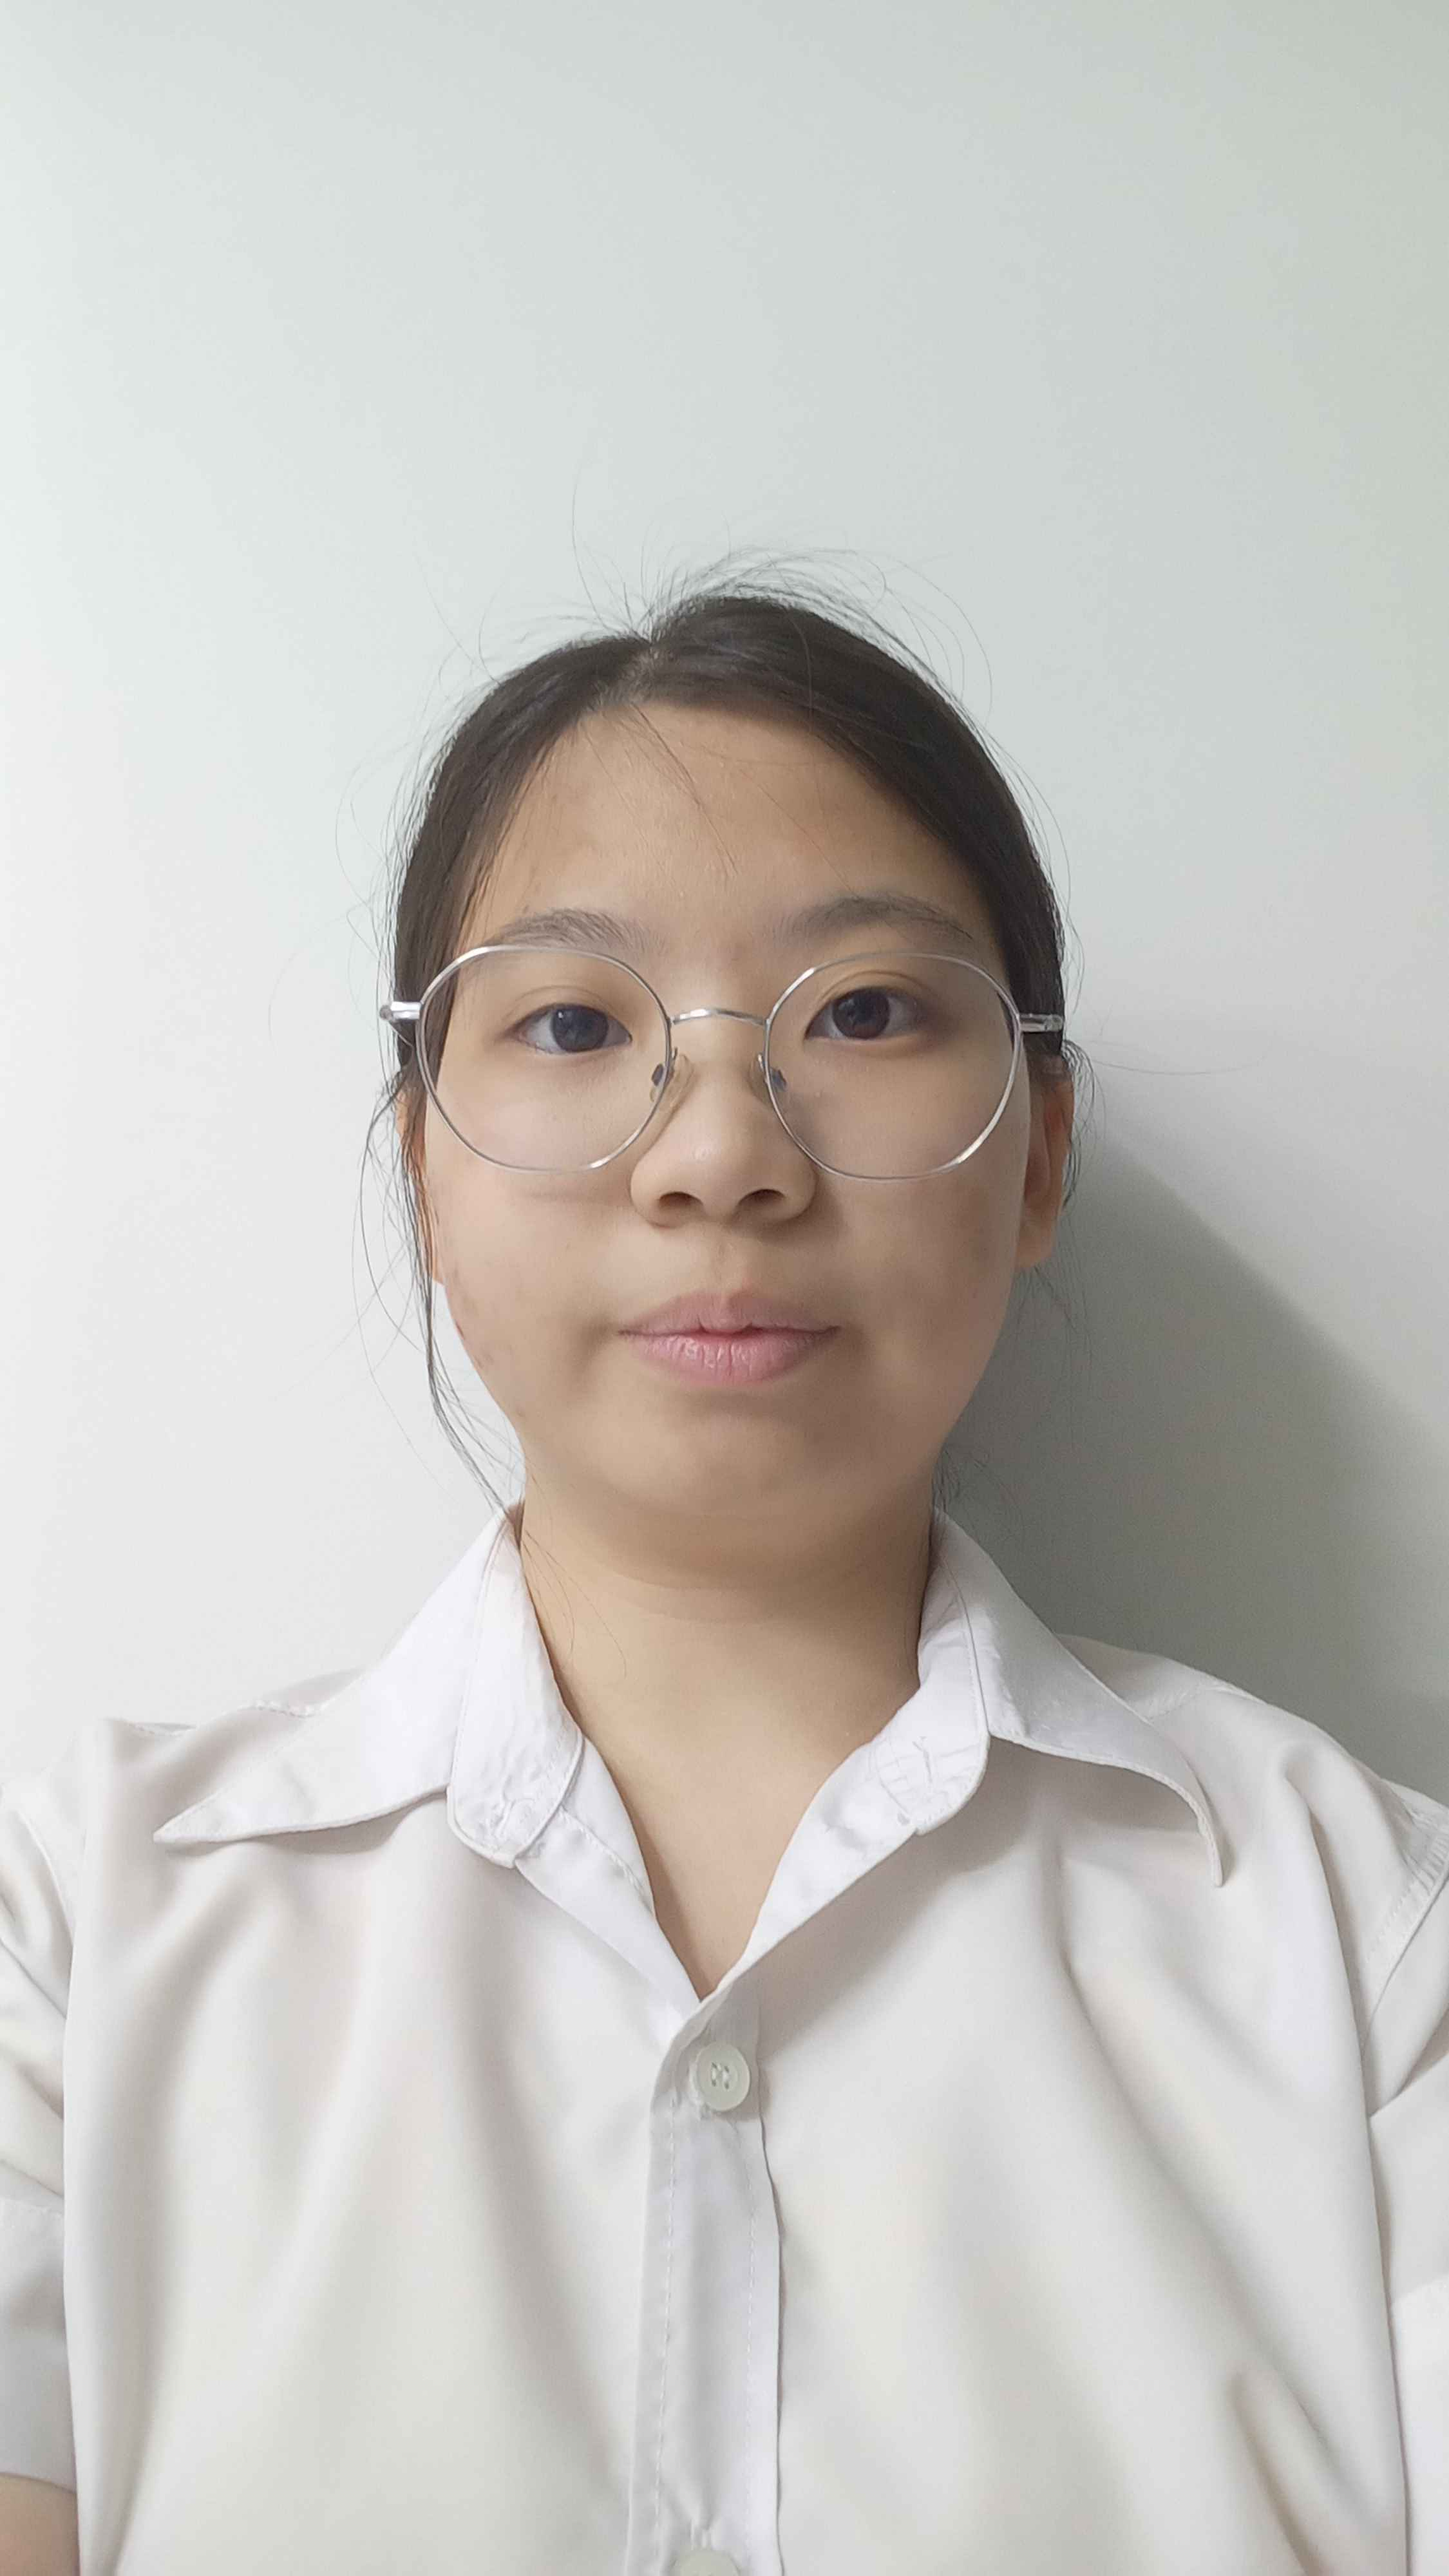
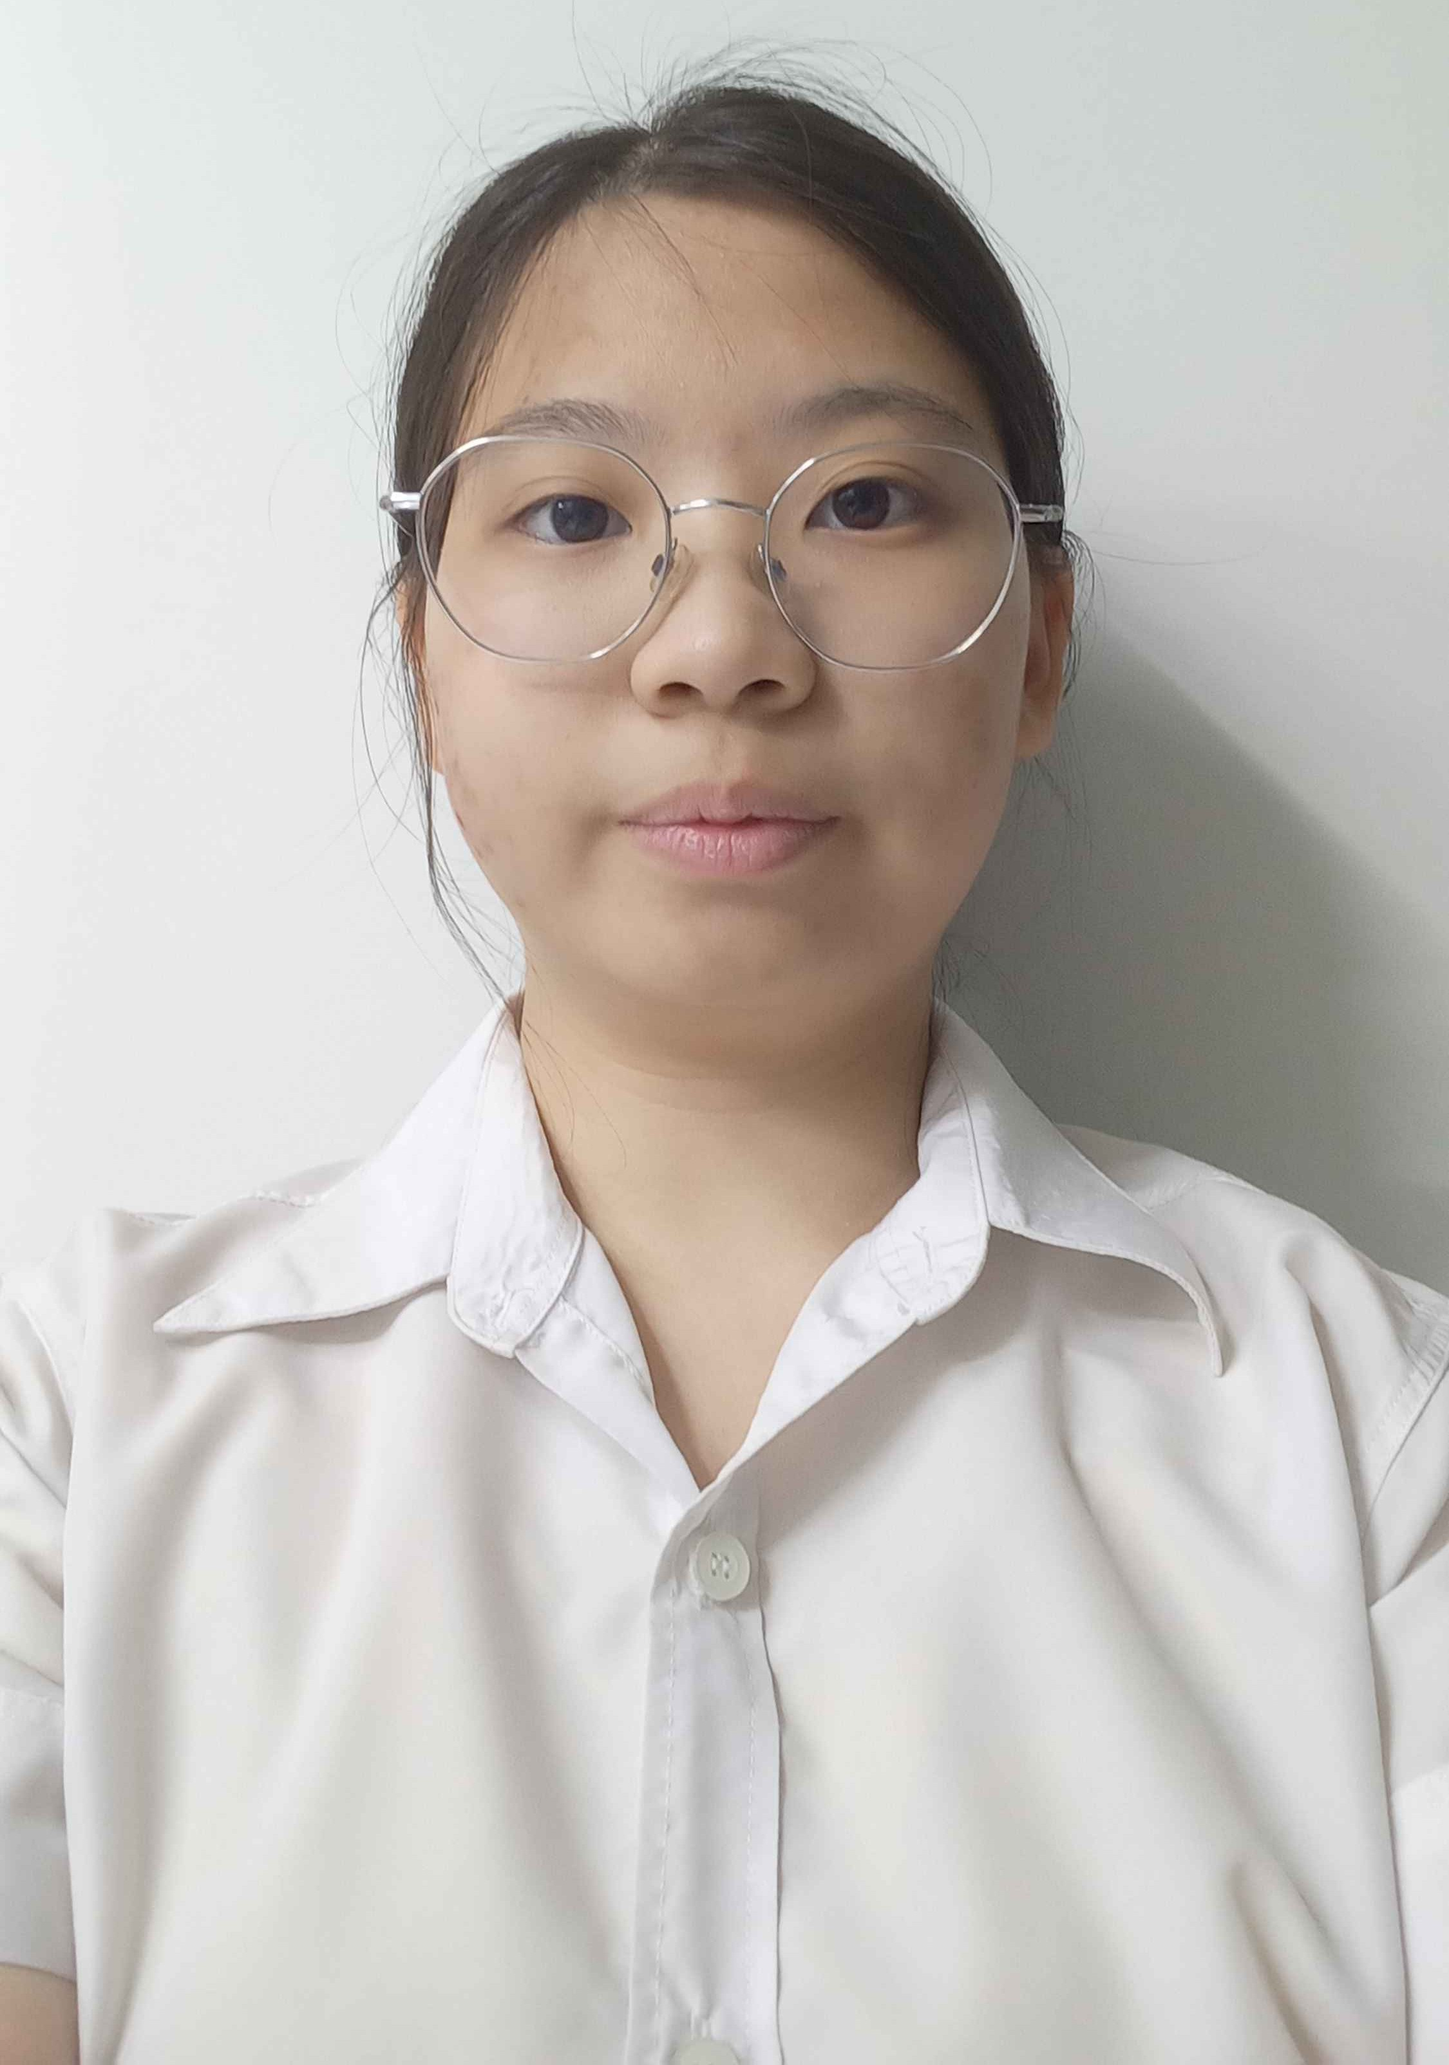
add member pic

diff --git a/docs/index.html b/docs/index.html
@@ -148,14 +148,14 @@
             </div>
 
             <div class = "card-member">
-                <img src = "image/Component/button.jpg" alt = "Member pic">
+                <img src = "image/Member/Member_deaw.jpeg" alt = "Member pic">
                 <h3>ศิริเทพ บดิการ</h3>
                 <h5>What bro do in this work</h5>
                 <p>explain thing bro do</p>
             </div>
 
             <div class = "card-member">
-                <img src = "image/Component/button.jpg" alt = "Member pic">
+                <img src = "image/Member/Member_program.jpg" alt = "Member pic">
                 <h3>ณัฐชนนท์ เหมือนเดช</h3>
                 <h5>What bro do in this work</h5>
                 <p>explain thing bro do</p>
